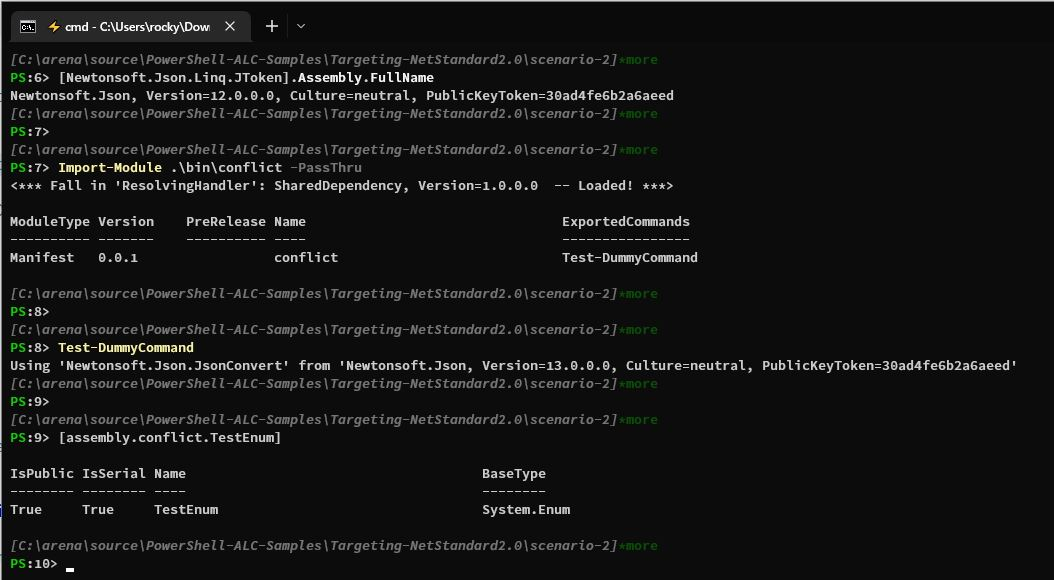
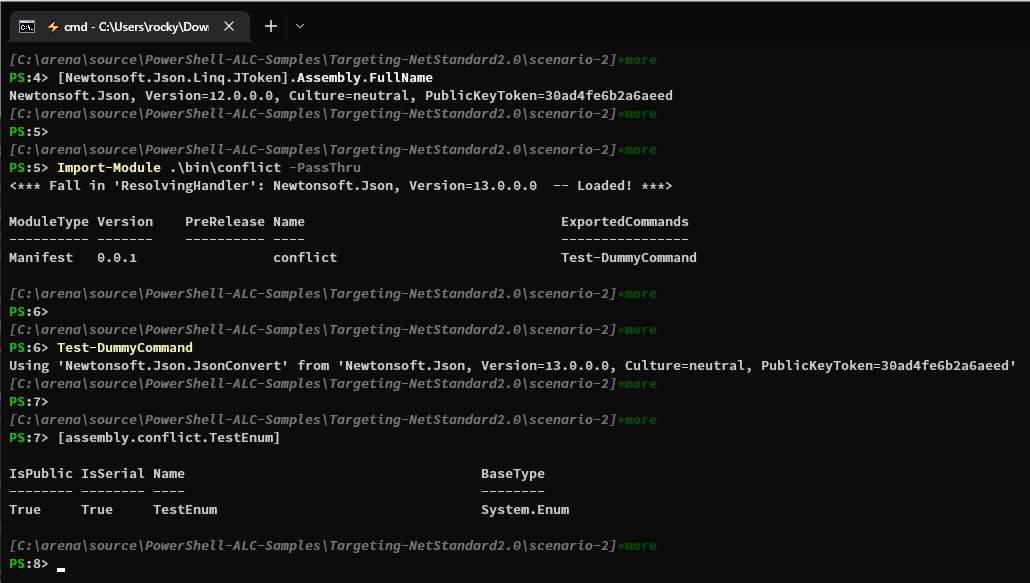
Fix some minor things

diff --git a/Targeting-NetStandard2.0/scenario-2/resolver/Class1.cs b/Targeting-NetStandard2.0/scenario-2/resolver/Class1.cs
@@ -26,7 +26,7 @@ namespace assembly.resolver
             string name = args.Name;
             if (name.Equals("Newtonsoft.Json, Version=13.0.0.0, Culture=neutral, PublicKeyToken=30ad4fe6b2a6aeed", StringComparison.OrdinalIgnoreCase))
             {
-                Console.WriteLine($"<*** Fall in 'ResolvingHandler': SharedDependency, Version=1.0.0.0  -- Loaded! ***>");
+                Console.WriteLine($"<*** Fall in 'ResolvingHandler': Newtonsoft.Json, Version=13.0.0.0  -- Loaded! ***>");
 
                 string path = Path.Combine(dependencyFolder, name.Split(',')[0]) + ".dll";
                 if (File.Exists(path))
